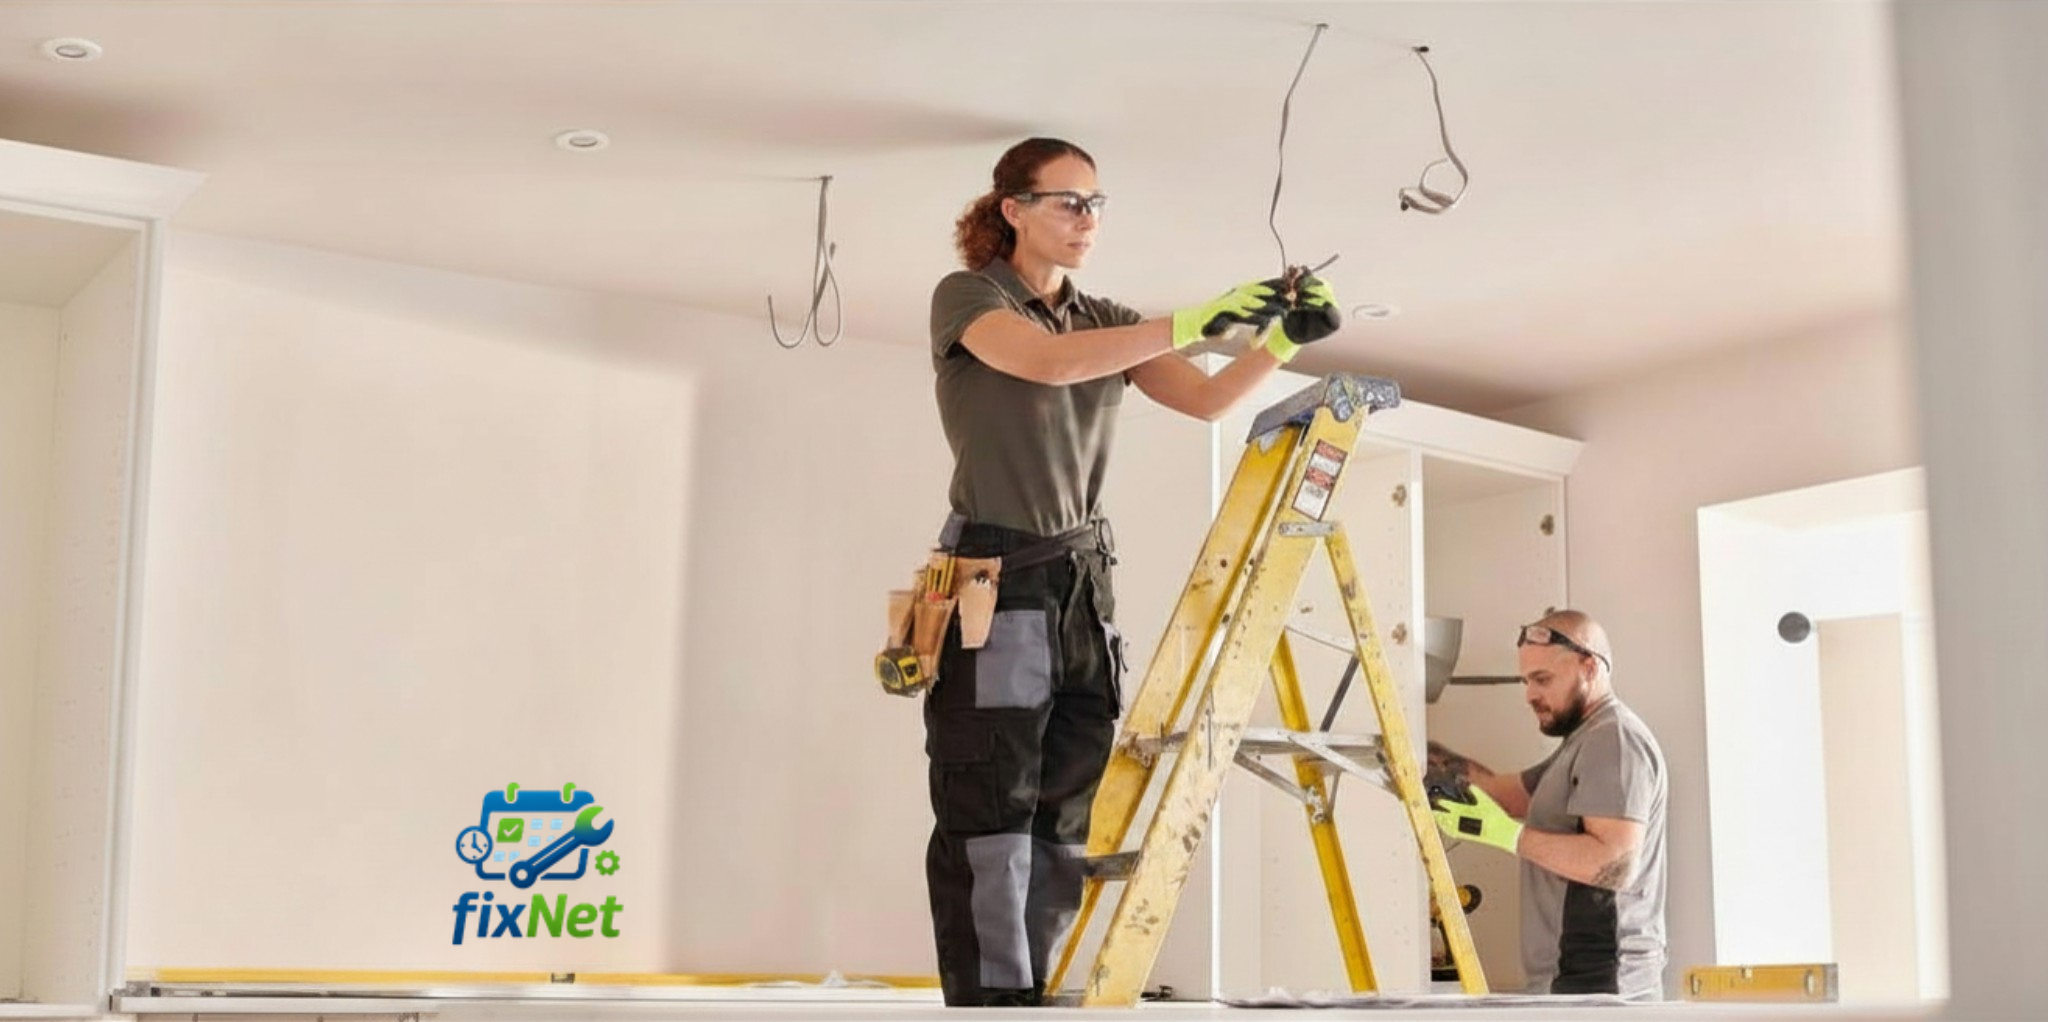
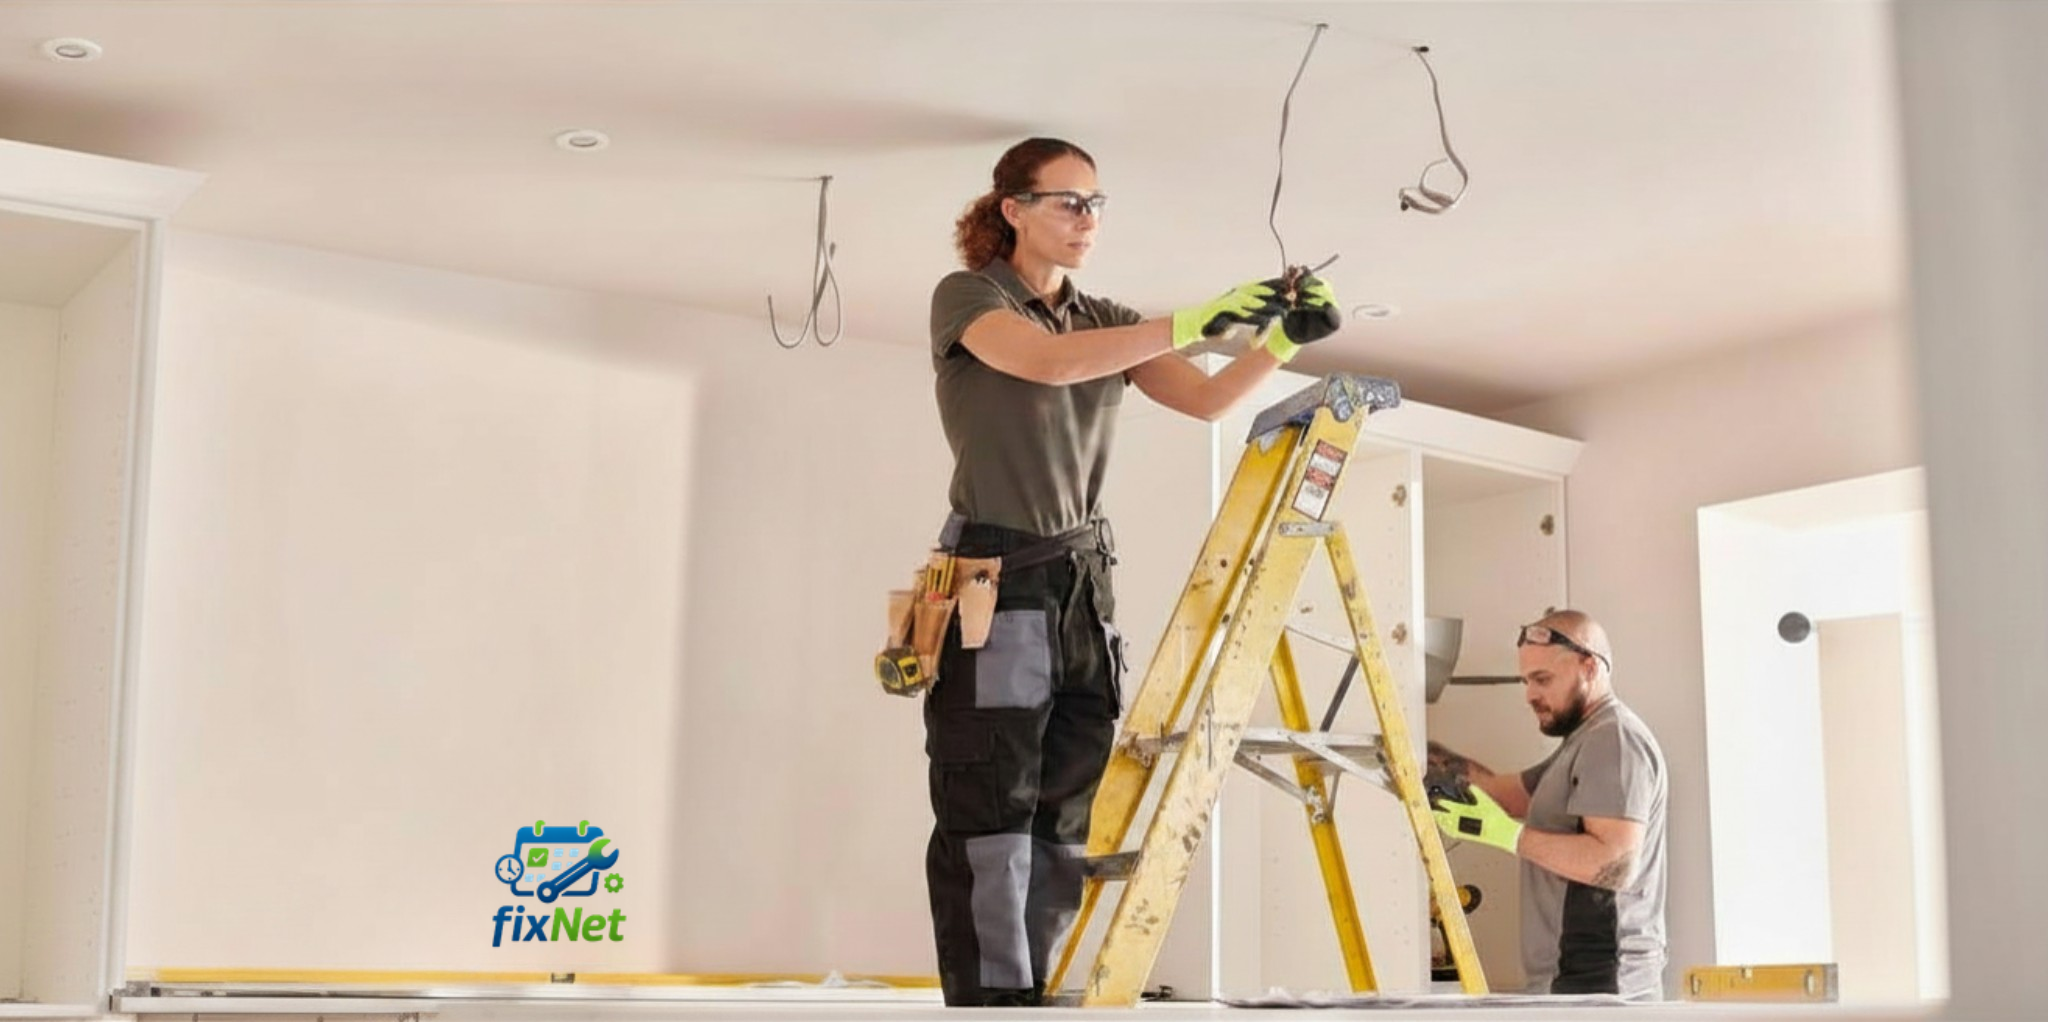
Modificación de de SobreFixnet

Changed region(s): [[0.2188, 0.7583, 0.3125, 0.9403]]

diff --git a/Fixnet/styles/StyleSobreFixnet.css b/Fixnet/styles/StyleSobreFixnet.css
@@ -100,6 +100,10 @@
         animation-delay: 0.3s;
     }
 
+    .func-card:nth-child(4) {
+        animation-delay: 0.4s;
+    }
+
     .func-card:hover {
         transform: translateY(-6px);
         box-shadow: 0 20px 50px rgba(0, 0, 0, 0.5);